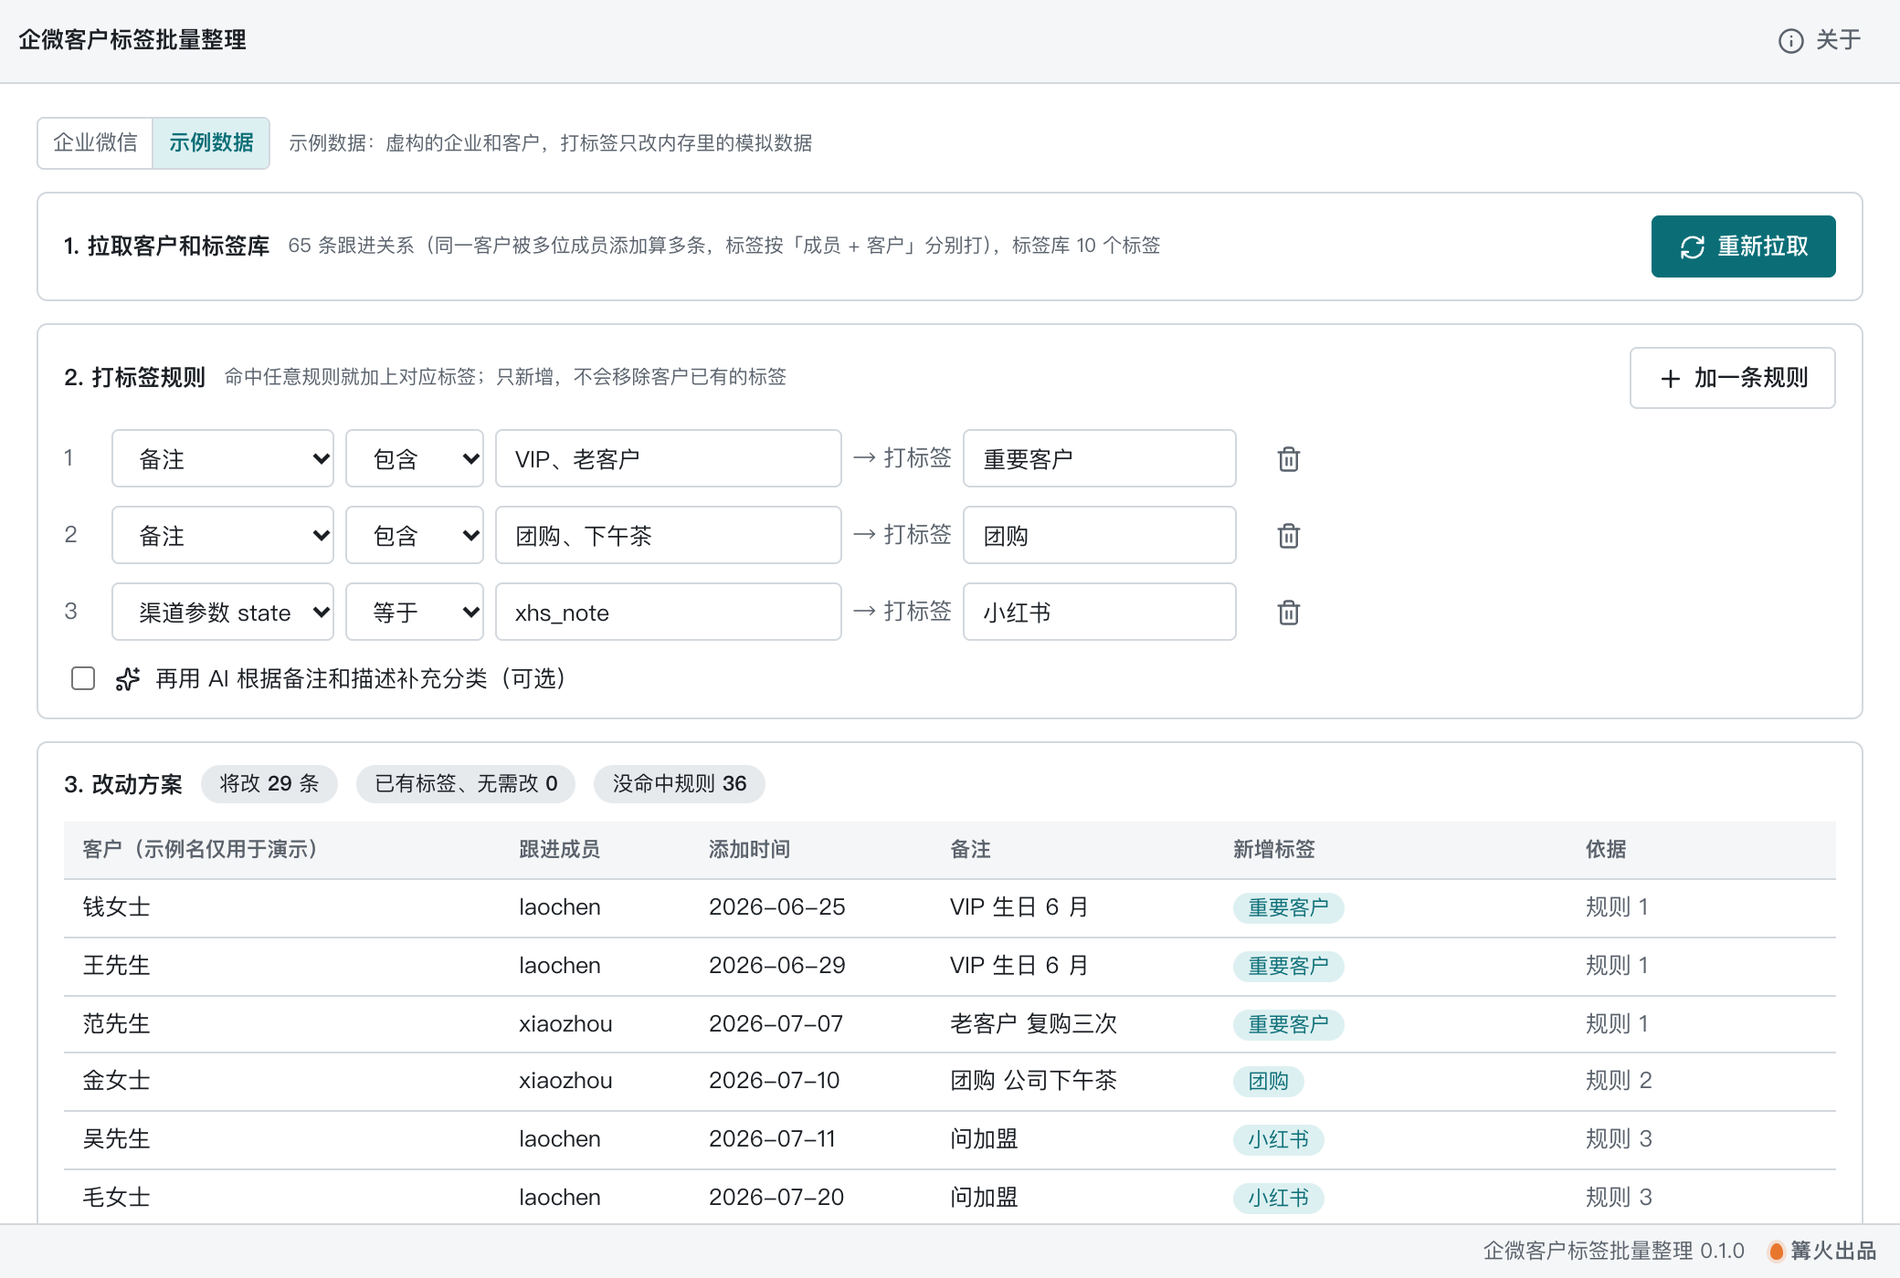
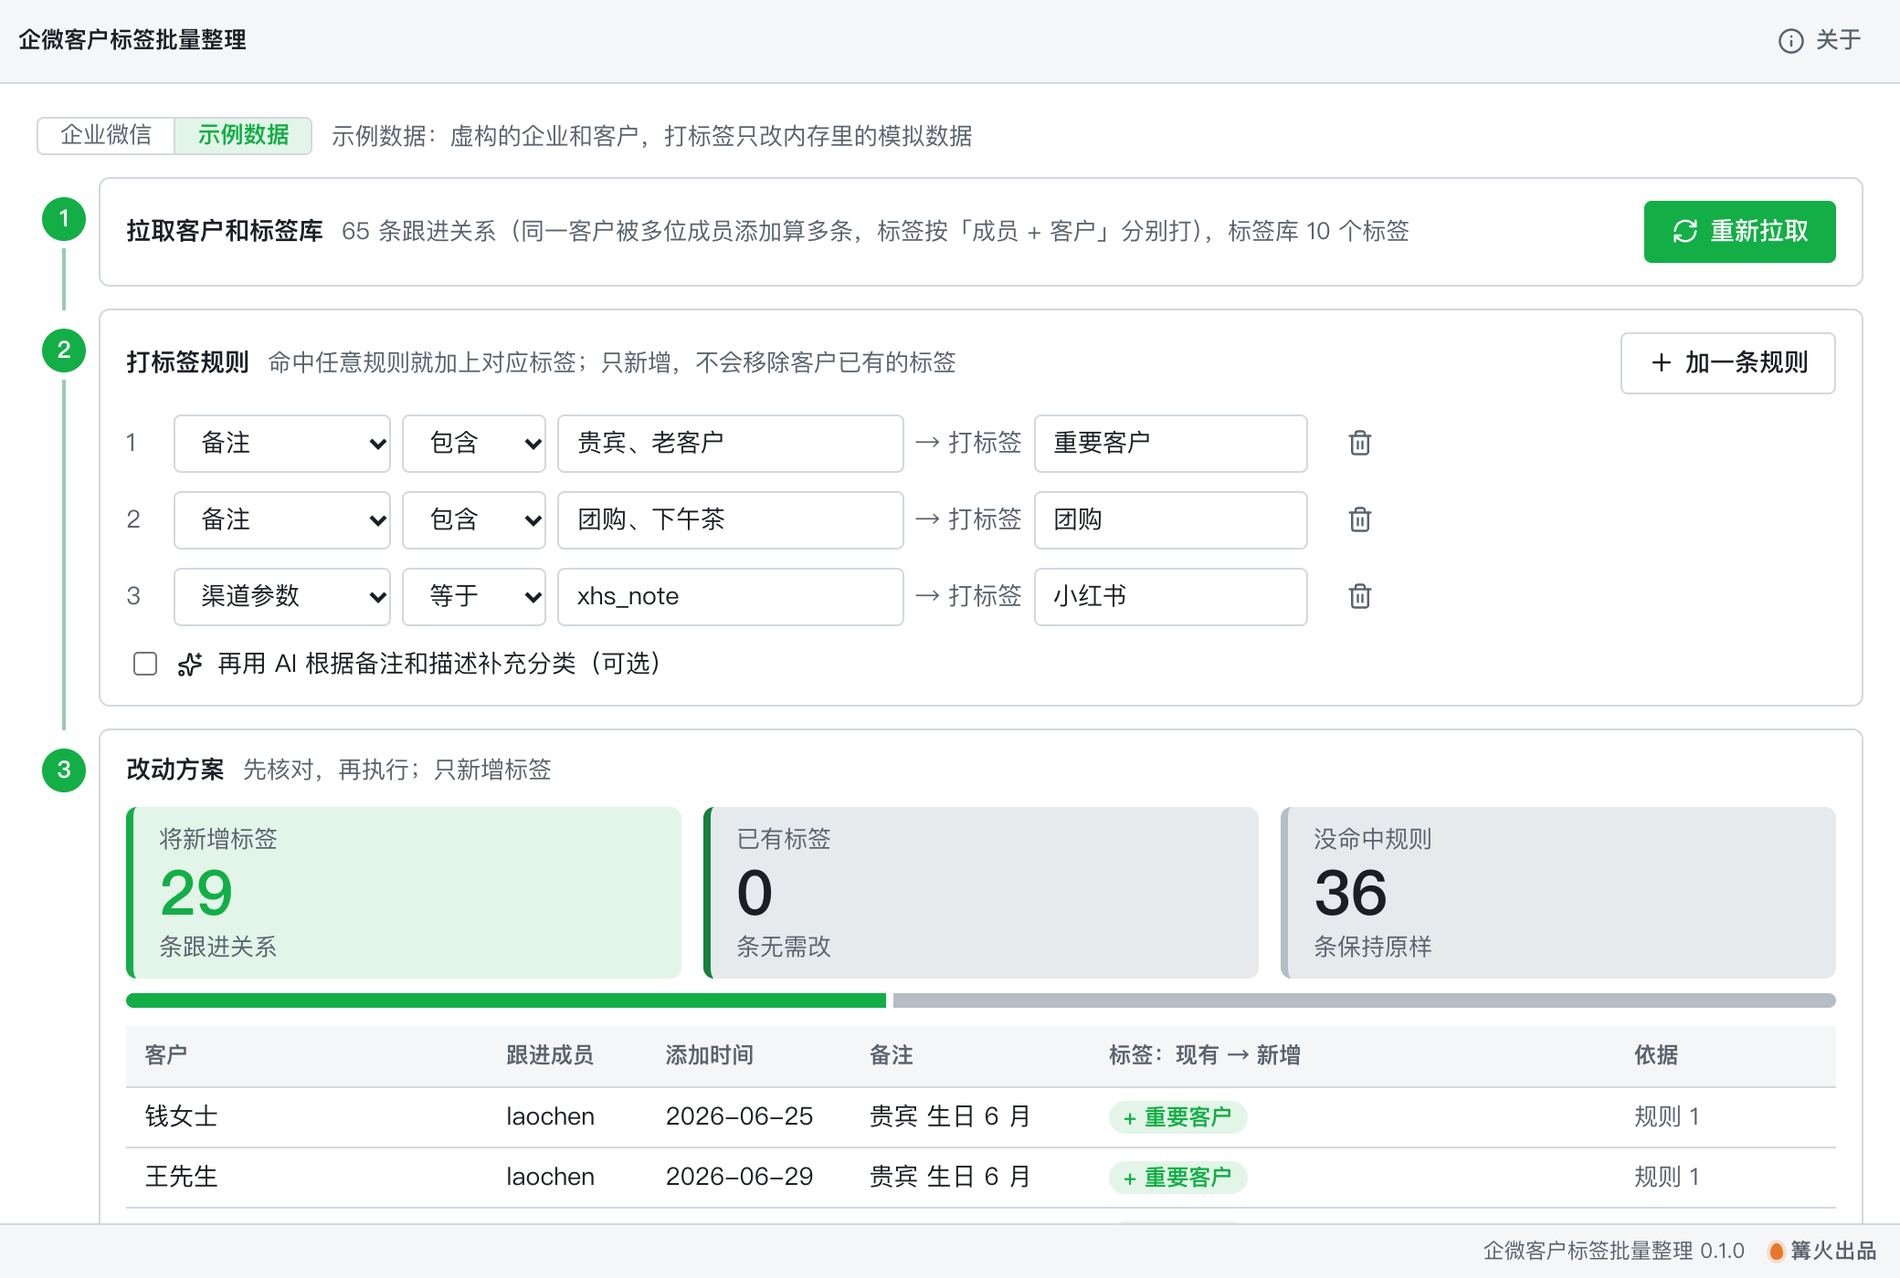
打磨 0.2.0：三步时间线、改动方案大字概览与标签对照，界面全中文

diff --git a/src/tool/Main.tsx b/src/tool/Main.tsx
@@ -1,6 +1,6 @@
 // 企微客户标签批量整理：连接企业微信 → 拉客户和标签库 → 写规则（可加 AI）→ 看改动方案 → 确认后批量打标签 → 导出结果。
 import { useEffect, useMemo, useRef, useState } from 'react';
-import { Check, Download, Loader2, Plus, RefreshCw, Sparkles, Trash2, Users } from 'lucide-react';
+import { ArrowRight, Check, Download, Loader2, Plus, RefreshCw, Sparkles, Tags, Trash2, Users } from 'lucide-react';
 import type { RunContext } from '../kit/types';
 import { settingsStore } from '../kit/platform';
 import { llmReady, useSettings } from '../kit/settings';
@@ -113,16 +113,16 @@ export function Main({ ctx }: { ctx: Ctx }) {
       {conn.source === 'wecom' && <SetupPanel conn={conn} open={setupOpen || !conn.ready} setOpen={setSetupOpen} onMsg={setNotice} />}
       {notice && <div className={`k-notice ${notice.kind}`} role="status">{notice.text}</div>}
 
-      <section className="k-panel wt-card">
-        <div className="wt-hd"><b>1. 拉取客户和标签库</b>
+      <section className="k-panel wt-card wt-step" data-n="1">
+        <div className="wt-hd"><b>拉取客户和标签库</b>
           {rels.length > 0 && <span className="k-help">{rels.length} 条跟进关系（同一客户被多位成员添加算多条，标签按「成员 + 客户」分别打），标签库 {lib.length} 个标签</span>}
           <span className="wt-grow" />
           <button className="k-btn primary" disabled={!idle || !conn.ready} onClick={() => void pull()}>{busy === 'pull' ? <Loader2 size={15} className="k-spin" /> : rels.length ? <RefreshCw size={15} /> : <Users size={15} />}{rels.length ? '重新拉取' : '拉取客户'}</button>
         </div>
       </section>
 
-      <section className="k-panel wt-card">
-        <div className="wt-hd"><b>2. 打标签规则</b><span className="k-help">命中任意规则就加上对应标签；只新增，不会移除客户已有的标签</span>
+      <section className="k-panel wt-card wt-step" data-n="2">
+        <div className="wt-hd"><b>打标签规则</b><span className="k-help">命中任意规则就加上对应标签；只新增，不会移除客户已有的标签</span>
           <span className="wt-grow" />
           <button className="k-btn" disabled={!idle} onClick={() => saveRules([...rules, newRule()])}><Plus size={15} />加一条规则</button>
         </div>
@@ -175,17 +175,19 @@ export function Main({ ctx }: { ctx: Ctx }) {
       {busy && <div className="wt-progress"><Loader2 size={15} className="k-spin" />{progress || '处理中…'}{busy !== 'pull' && <button className="k-btn" onClick={() => stop.current?.abort()}>停止</button>}</div>}
 
       {rels.length > 0 && (
-        <section className="k-panel wt-card wt-plan">
-          <div className="wt-hd"><b>3. 改动方案</b>
-            <span className="wt-stat">将改 <b className="k-num">{plan.rows.length}</b> 条</span>
-            <span className="wt-stat">已有标签、无需改 <b className="k-num">{plan.alreadyDone}</b></span>
-            <span className="wt-stat">没命中规则 <b className="k-num">{plan.unmatched}</b></span>
-            {plan.toCreate.size > 0 && <span className="wt-stat warn">需先新建标签 {[...plan.toCreate].flatMap(([g, n]) => n.map((x) => `${g}/${x}`)).join('、')}</span>}
+        <section className="k-panel wt-card wt-plan wt-step" data-n="3">
+          <div className="wt-hd"><b>改动方案</b><span className="k-help">先核对，再执行；只新增标签</span></div>
+          <div className="wt-hero" aria-label="改动概览">
+            {([['将新增标签', plan.rows.length, 'hit', '条跟进关系'], ['已有标签', plan.alreadyDone, 'done', '条无需改'], ['没命中规则', plan.unmatched, 'miss', '条保持原样']] as const).map(([k, n, c, u]) => (
+              <div key={k} className={`wt-big ${c}`}><span className="wt-big-k">{k}</span><b className="k-num">{n}</b><span className="wt-big-u">{u}</span></div>
+            ))}
+            <div className="wt-bar" aria-hidden>{[plan.rows.length, plan.alreadyDone, plan.unmatched].map((n, i) => <i key={i} className={['hit', 'done', 'miss'][i]} style={{ flexGrow: n }} />)}</div>
           </div>
+          {plan.toCreate.size > 0 && <span className="wt-stat warn">需先新建标签 {[...plan.toCreate].flatMap(([g, n]) => n.map((x) => `${g}/${x}`)).join('、')}</span>}
           {plan.rows.length === 0 ? <p className="k-muted">现在的规则没有需要新增的标签。</p> : (
             <div className="k-scroll wt-tablebox">
               <table className="k-table">
-                <thead><tr><th>客户（示例名仅用于演示）</th><th>跟进成员</th><th>添加时间</th><th>备注</th><th>新增标签</th><th>{hasResults ? '结果' : '依据'}</th></tr></thead>
+                <thead><tr><th>客户</th><th>跟进成员</th><th>添加时间</th><th>备注</th><th>标签：现有 → 新增</th><th>{hasResults ? '结果' : '依据'}</th></tr></thead>
                 <tbody>
                   {plan.rows.slice(0, 300).map((p, i) => {
                     const res = hasResults ? results[i] : undefined;
@@ -194,7 +196,7 @@ export function Main({ ctx }: { ctx: Ctx }) {
                         <td>{p.rel.name}{p.rel.corpName ? <span className="k-muted"> · {p.rel.corpName}</span> : null}</td>
                         <td className="k-num">{p.rel.userid}</td><td className="k-num">{fmtDate(p.rel.createtime)}</td>
                         <td className="wt-remark">{p.rel.remark || <span className="k-muted">—</span>}</td>
-                        <td>{p.add.map((n) => <span key={n} className="wt-tagpill">{n}</span>)}</td>
+                        <td><span className="wt-diff">{p.rel.tagIds.map((id) => <span key={id} className="wt-oldtag">{lib.find((t) => t.id === id)?.name ?? '其他标签'}</span>)}{p.rel.tagIds.length > 0 && <ArrowRight size={13} className="wt-darrow" aria-hidden />}{p.add.map((n) => <span key={n} className="wt-tagpill">+ {n}</span>)}</span></td>
                         <td>{res ? <span className={`wt-st ${res.status === '成功' ? 'ok' : 'err'}`}>{res.status}{res.error ? `：${res.error}` : ''}</span> : <span className="k-muted">{[...new Set(p.why.map(namesInUse))].join('、')}</span>}</td>
                       </tr>
                     );
@@ -218,7 +220,13 @@ export function Main({ ctx }: { ctx: Ctx }) {
           </div>
         </section>
       )}
-      {rels.length === 0 && idle && <section className="k-panel wt-empty"><Users size={26} /><b>批量整理企业微信客户的标签</b><span className="k-muted">先在上方连接企业微信（或切到「示例数据」体验），拉取客户后写规则，看过改动方案再执行。</span></section>}
+      {rels.length === 0 && idle && <section className="k-panel wt-empty">
+        <div className="wt-demo" aria-hidden>
+          <ul className="wt-d-src"><li>备注：贵宾 生日 6 月</li><li>备注：团购 下午茶</li><li>渠道：小红书笔记</li></ul>
+          <span className="wt-d-mid"><Tags size={18} />规则</span>
+          <ul className="wt-d-out"><li><i>+</i>重要客户</li><li><i>+</i>团购</li><li><i>+</i>小红书</li></ul>
+        </div>
+        <b>杂乱的备注，变成整齐的标签</b><span className="k-muted">先在上方连接企业微信（或切到「示例数据」体验），拉取客户后写规则，看过改动方案再执行。</span></section>}
     </div>
   );
 }

diff --git a/src/tool/wecom.ts b/src/tool/wecom.ts
@@ -33,11 +33,11 @@ export const urls = {
 const ERRORS: Record<number, string> = {
   [-1]: '企业微信系统繁忙，请稍后再试',
   40001: 'Secret 不对。请确认填的是「自建应用」的 Secret，并且和企业 ID 属于同一个企业',
-  40013: '企业 ID（corpid）不对，请到管理后台「我的企业 → 企业信息」底部核对',
+  40013: '企业 ID 不对，请到管理后台「我的企业 → 企业信息」底部核对',
   40014: 'access_token 不合法，请重试',
-  40056: 'agentid 不合法',
+  40056: '应用编号不合法',
   40068: '标签或标签组 ID 不存在，可能已在后台删除，请重新同步标签库',
-  40096: '客户的 external_userid 不合法',
+  40096: '客户编号不合法',
   40098: '成员尚未实名认证',
   41001: '缺少 access_token 参数',
   41054: '该成员尚未激活',
@@ -46,7 +46,7 @@ const ERRORS: Record<number, string> = {
   45033: '接口并发调用超过限制，请稍后再试',
   48002: '这个应用没有调用该接口的权限。请在管理后台把它加入「客户联系 → 可调用接口的应用」',
   60011: '应用对指定的成员、部门或标签没有权限，请把成员加进应用的可见范围',
-  60111: '成员 UserID 不存在',
+  60111: '成员账号不存在',
   84061: '该成员和这个客户之间不存在外部联系人关系（客户可能已删除）',
   84074: '没有外部联系人权限，请把应用加入「客户联系 → 可调用接口的应用」',
   701008: '这些成员都没有已激活的互通账号',
@@ -231,7 +231,7 @@ export async function addCorpTags(http: Http, token: string, groupName: string, 
 }
 
 export async function markTag(http: Http, token: string, userid: string, externalUserid: string, addTag: string[], removeTag: string[] = []): Promise<void> {
-  if (!addTag.length && !removeTag.length) throw new Error('add_tag 与 remove_tag 不能同时为空');
+  if (!addTag.length && !removeTag.length) throw new Error('要添加的标签和要移除的标签不能同时为空');
   const body: Record<string, unknown> = { userid, external_userid: externalUserid };
   if (addTag.length) body.add_tag = addTag;
   if (removeTag.length) body.remove_tag = removeTag;
@@ -255,8 +255,8 @@ export interface NewContactWay { type: 1 | 2; remark: string; state: string; use
 
 /** 「联系我」的 remark 与 state 都最长 30 个字符；单人类型只能有 1 个成员；每个最多 100 个成员（path/92228） */
 export function checkContactWay(w: NewContactWay): string | null {
-  if (!w.state.trim()) return '渠道参数 state 不能为空，统计时就靠它区分渠道';
-  if ([...w.state].length > 30) return '渠道参数 state 最长 30 个字符';
+  if (!w.state.trim()) return '渠道参数不能为空，统计时就靠它区分渠道';
+  if ([...w.state].length > 30) return '渠道参数最长 30 个字符';
   if ([...w.remark].length > 30) return '备注最长 30 个字符';
   if (!w.users.length) return '至少选择 1 个使用成员';
   if (w.type === 1 && w.users.length !== 1) return '单人活码只能选 1 个成员；要多人轮流接待请选「多人」';

diff --git a/src/tool/tool.css b/src/tool/tool.css
@@ -33,3 +33,34 @@
 .wt-confirm { display: inline-flex; align-items: center; gap: 10px; flex-wrap: wrap; color: var(--warn); font-weight: 500; }
 .wt-empty { display: grid; justify-items: center; gap: 8px; padding: 36px 24px; text-align: center; }
 .wt-empty b { font-size: 1.1em; }
+.wt-root { font-size: 13.5px; }
+.wt-root .k-help, .wt-root .k-muted { font-size: 13px; }
+/* 时间线：1 拉取 → 2 规则 → 3 方案，左侧圆点和竖线串起来 */
+.wt-step { position: relative; margin-left: 34px; overflow: visible; }
+.wt-step::before { content: attr(data-n); position: absolute; left: -32px; top: 10px; width: 24px; height: 24px; border-radius: 50%; background: var(--primary); color: #fff; font-weight: 700; font-size: 13px; display: grid; place-items: center; }
+.wt-step::after { content: ''; position: absolute; left: -21px; top: 38px; bottom: -14px; width: 2px; background: color-mix(in srgb, var(--primary) 30%, var(--line)); }
+.wt-step:last-of-type::after, .wt-plan::after { display: none; }
+.wt-hero { display: grid; grid-template-columns: repeat(3, 1fr); gap: 8px 12px; }
+.wt-big { display: grid; gap: 0; padding: 8px 14px; border-radius: var(--radius-lg); background: var(--chip); border-left: 4px solid var(--line-strong); }
+.wt-big b { font-size: 34px; line-height: 1.15; font-weight: 700; }
+.wt-big-k { font-size: 13px; color: var(--muted); }
+.wt-big-u { font-size: 13px; color: var(--muted); }
+.wt-big.hit { border-left-color: var(--primary); background: var(--primary-soft); }
+.wt-big.hit b { color: var(--primary); }
+.wt-big.done { border-left-color: var(--ok); }
+.wt-bar { grid-column: 1 / -1; display: flex; height: 8px; border-radius: 99px; overflow: hidden; gap: 2px; }
+.wt-bar i { min-width: 0; transition: flex-grow .2s var(--ease); }
+.wt-bar .hit { background: var(--primary); } .wt-bar .done { background: var(--ok); } .wt-bar .miss { background: var(--line-strong); }
+.wt-diff { display: inline-flex; align-items: center; gap: 4px; flex-wrap: wrap; }
+.wt-oldtag { padding: 0 8px; border-radius: 4px; background: var(--chip); color: var(--muted); font-size: 13px; }
+.wt-darrow { color: var(--muted); }
+.wt-tagpill { font-weight: 600; }
+.wt-demo { display: flex; align-items: center; gap: 16px; flex-wrap: wrap; justify-content: center; }
+.wt-demo ul { list-style: none; margin: 0; padding: 0; display: grid; gap: 6px; text-align: left; }
+.wt-d-src li { padding: 6px 12px; border-radius: 6px; background: var(--chip); color: var(--muted); font-size: 13px; transform: rotate(-1deg); }
+.wt-d-src li:nth-child(2) { transform: rotate(1.2deg) translateX(6px); }
+.wt-d-mid { display: inline-flex; align-items: center; gap: 6px; padding: 8px 14px; border-radius: 99px; border: 2px dashed var(--primary); color: var(--primary); font-weight: 600; }
+.wt-d-out li { display: flex; align-items: center; gap: 6px; padding: 6px 12px; border-radius: 99px; background: var(--primary-soft); color: var(--primary); font-weight: 600; font-size: 13px; }
+.wt-d-out i { font-style: normal; }
+.wt-chip { min-height: 32px; font-size: 13px; }
+.wt-root .k-btn { min-height: 32px; }

diff --git a/src/tool/Setup.tsx b/src/tool/Setup.tsx
@@ -77,8 +77,8 @@ export function SetupPanel({ conn, open, setOpen, onMsg }: { conn: Conn; open: b
       {open && (
         <div className="wx-setup-body">
           <div className="wx-setup-grid">
-            <div className="k-field"><label className="k-label" htmlFor="wx-corp">企业 ID（corpid）</label><input id="wx-corp" className="k-input" autoComplete="off" value={draft.corpId} placeholder="ww 开头" onChange={(e) => setDraft({ ...draft, corpId: e.target.value })} /></div>
-            <div className="k-field"><label className="k-label" htmlFor="wx-secret">自建应用 Secret</label><input id="wx-secret" className="k-input" type="password" autoComplete="off" value={draft.secret} placeholder="应用详情里的 Secret" onChange={(e) => setDraft({ ...draft, secret: e.target.value })} /></div>
+            <div className="k-field"><label className="k-label" htmlFor="wx-corp">企业 ID</label><input id="wx-corp" className="k-input" autoComplete="off" value={draft.corpId} placeholder="管理后台里的企业 ID，共 18 位" onChange={(e) => setDraft({ ...draft, corpId: e.target.value })} /></div>
+            <div className="k-field"><label className="k-label" htmlFor="wx-secret">自建应用的 Secret（应用密钥）</label><input id="wx-secret" className="k-input" type="password" autoComplete="off" value={draft.secret} placeholder="应用详情里的 Secret" onChange={(e) => setDraft({ ...draft, secret: e.target.value })} /></div>
           </div>
           <ol className="wx-pre">
             <li>企业 ID 在管理后台「我的企业 → 企业信息」里查看；Secret 用<b>自建应用</b>的（2023 年 12 月 1 日起，新企业不能再用系统应用的 Secret 调接口）。</li>

diff --git a/src/tool/core.ts b/src/tool/core.ts
@@ -21,7 +21,7 @@ export const DEFAULT_GROUP = '自动标签';
 export const TAG_NAME_MAX = 30;
 
 export const FIELD_LABELS: Record<RuleField, string> = {
-  remark: '备注', description: '描述', corpName: '客户企业名', name: '客户名称', state: '渠道参数 state',
+  remark: '备注', description: '描述', corpName: '客户企业名', name: '客户名称', state: '渠道参数',
   userid: '跟进成员', addWay: '添加方式', type: '客户类型', ageDays: '添加至今天数',
 };
 export const FIELD_OPS: Record<RuleField, [RuleOp, string][]> = {
@@ -199,7 +199,7 @@ export interface ResultRow { userid: string; externalUserid: string; name: strin
 
 const csvCell = (v: string) => (/[",\n\r]/.test(v) ? `"${v.replace(/"/g, '""')}"` : v);
 export function toCsv(rows: ResultRow[]): string {
-  const head = ['跟进成员', '客户 external_userid', '客户名称', '新增标签', '结果', '失败原因'];
+  const head = ['跟进成员', '客户编号', '客户名称', '新增标签', '结果', '失败原因'];
   const lines = [head, ...rows.map((r) => [r.userid, r.externalUserid, r.name, r.add.join('、'), r.status, r.error])];
   return '' + lines.map((l) => l.map(csvCell).join(',')).join('\r\n') + '\r\n';
 }

diff --git a/src/tool/wecom.test.ts b/src/tool/wecom.test.ts
@@ -39,7 +39,7 @@ describe('请求构造与错误码', () => {
 describe('token', () => {
   it('企业 ID 错误给出提示；正确时缓存，不重复请求', async () => {
     const m = createMockWecom(NOW);
-    await expect(getToken(m.http, { corpId: 'wwbad', secret: 'x' })).rejects.toThrow(/企业 ID（corpid）不对/);
+    await expect(getToken(m.http, { corpId: 'wwbad', secret: 'x' })).rejects.toThrow(/企业 ID 不对/);
     await expect(getToken(m.http, { corpId: MOCK_CORP.corpId, secret: 'x' })).rejects.toThrow(/Secret 不对/);
     expect(await getToken(m.http, MOCK_CORP, NOW)).toBe('MOCK_TOKEN');
     await getToken(m.http, MOCK_CORP, NOW + 3600_000);

diff --git a/src/tool/preview.ts b/src/tool/preview.ts
@@ -13,7 +13,7 @@ const pulled = await pullRelations(m.http, 'T');
 const lib = await getCorpTags(m.http, 'T');
 const mk = (p: Partial<Rule> & Pick<Rule, 'id' | 'tag'>): Rule => ({ field: 'remark', op: 'contains', value: '', group: '自动标签', ...p });
 const rules: Rule[] = [
-  mk({ id: 'p1', value: 'VIP、老客户', tag: '重要客户' }),
+  mk({ id: 'p1', value: '贵宾、老客户', tag: '重要客户' }),
   mk({ id: 'p2', value: '团购、下午茶', tag: '团购' }),
   mk({ id: 'p3', field: 'state', op: 'equals', value: 'xhs_note', tag: '小红书' }),
 ];

diff --git a/CHANGELOG.md b/CHANGELOG.md
@@ -1,5 +1,12 @@
 # 更新记录
 
+## 0.2.0
+
+- 重做界面：拉取、规则、方案三步用时间线串起来；改动方案顶部用大字显示将新增、已有、没命中的数量和比例条。
+- 方案表新增「现有标签 → 新增标签」对照；空状态画出「杂乱备注 → 规则 → 整齐标签」示意。
+- 界面和报错中的英文字段名改为中文（企业 ID、渠道参数、客户编号等）。
+- 专属主色，示例数据中的英文改为中文。
+
 ## 0.1.0
 
 - 首个版本。
